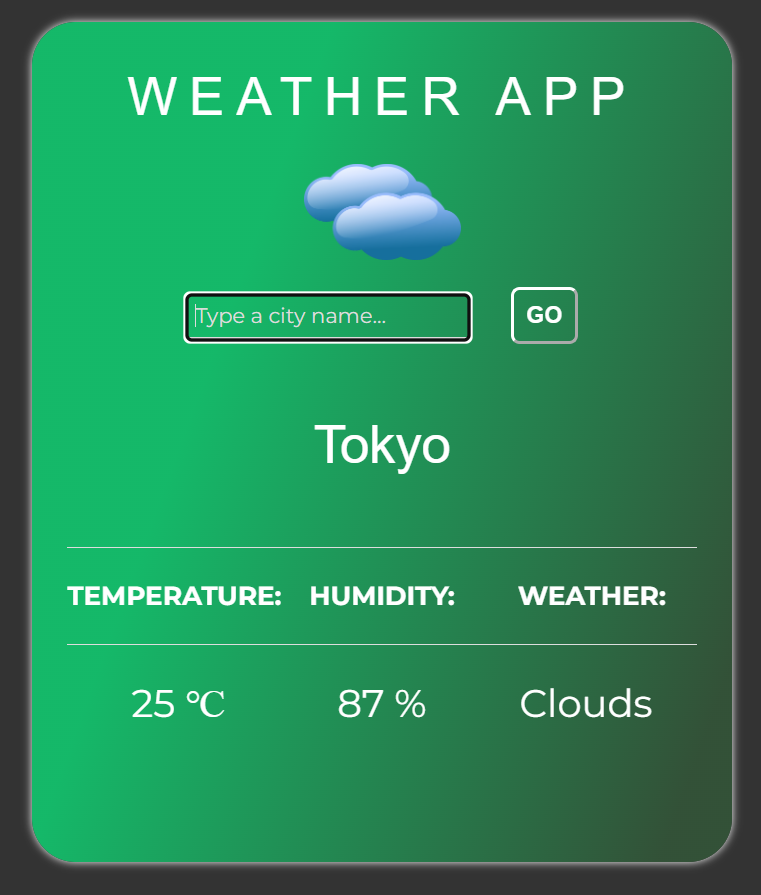
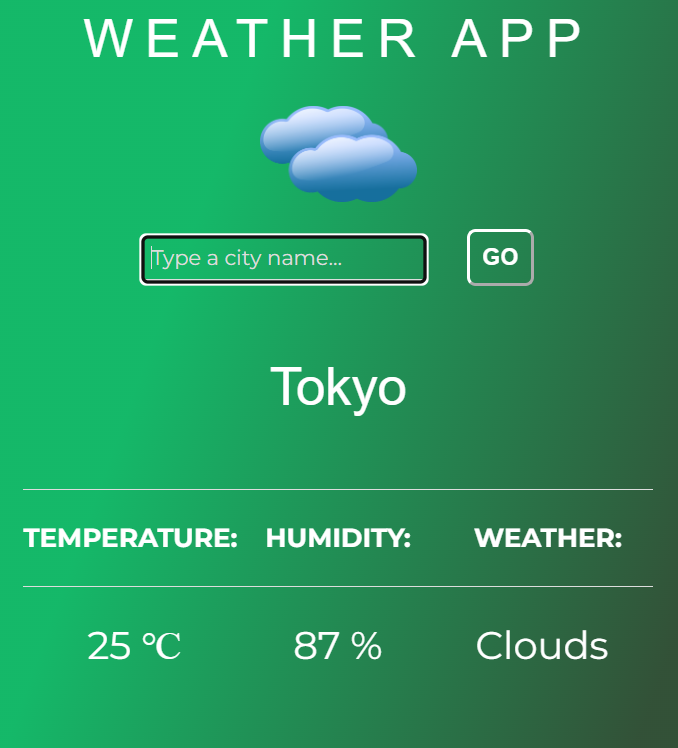
up

diff --git a/public/index.html b/public/index.html
@@ -149,7 +149,7 @@
   </div> 
   <div class="m-10 justify-center md:grid grid-cols-2">
     <div class="project-box">
-      <img class="" src="../src/weather-image1.png">
+      <img class="" src="../src/weather-image2.png">
       <h2>Project1</h2>
       <p>Project info</p>
       <span class="text-xs">
